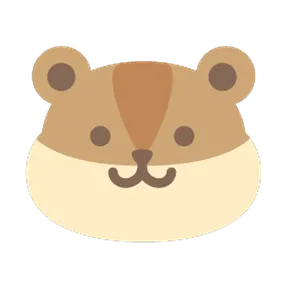
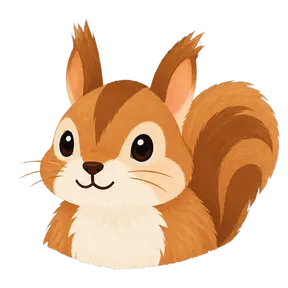
feat(interview): 面接担当者 4 人の写真を新しい動物イラスト（Cute Animal Portrait Sticker Set）に差し替え
山本 = 犬、橋爪 = リス、池田 = 猫、道脇 = うさぎ。docs/Cute Animal Portrait Sticker Set.png から透過のまま切り出し、同名ファイルを上書き（寸法は同じため manifest は変更なし）

diff --git a/src/content/interview.ts b/src/content/interview.ts
@@ -30,7 +30,7 @@ export const INTERVIEW = {
   /**
    * 面接担当者の一覧（いずれか 1 人が担当）。URL の ?s=<id> で 1 人に絞れる（通常は付けず全員を表示）。
    * message は \n で改行。photo は public/images/ 配下（manifest 経由）。無ければ「写真」のプレースホルダ。
-   * 今の photo は動物アイコン（docs/2404858.png「シンプルかわいいどうぶつアイコン」から犬・リス・猫・うさぎを切り出した透過 PNG）
+   * 今の photo は動物のイラスト（docs/Cute Animal Portrait Sticker Set.png から犬・リス・猫・うさぎを切り出した透過 PNG）
    */
   interviewers: [
     { id: "yamamoto", role: "役員", name: "山本", message: "会社全体の事業を統括する頼れる存在！\nプライベートでは優しい二児のパパです😊", photo: "/images/interview/yamamoto.png" },
